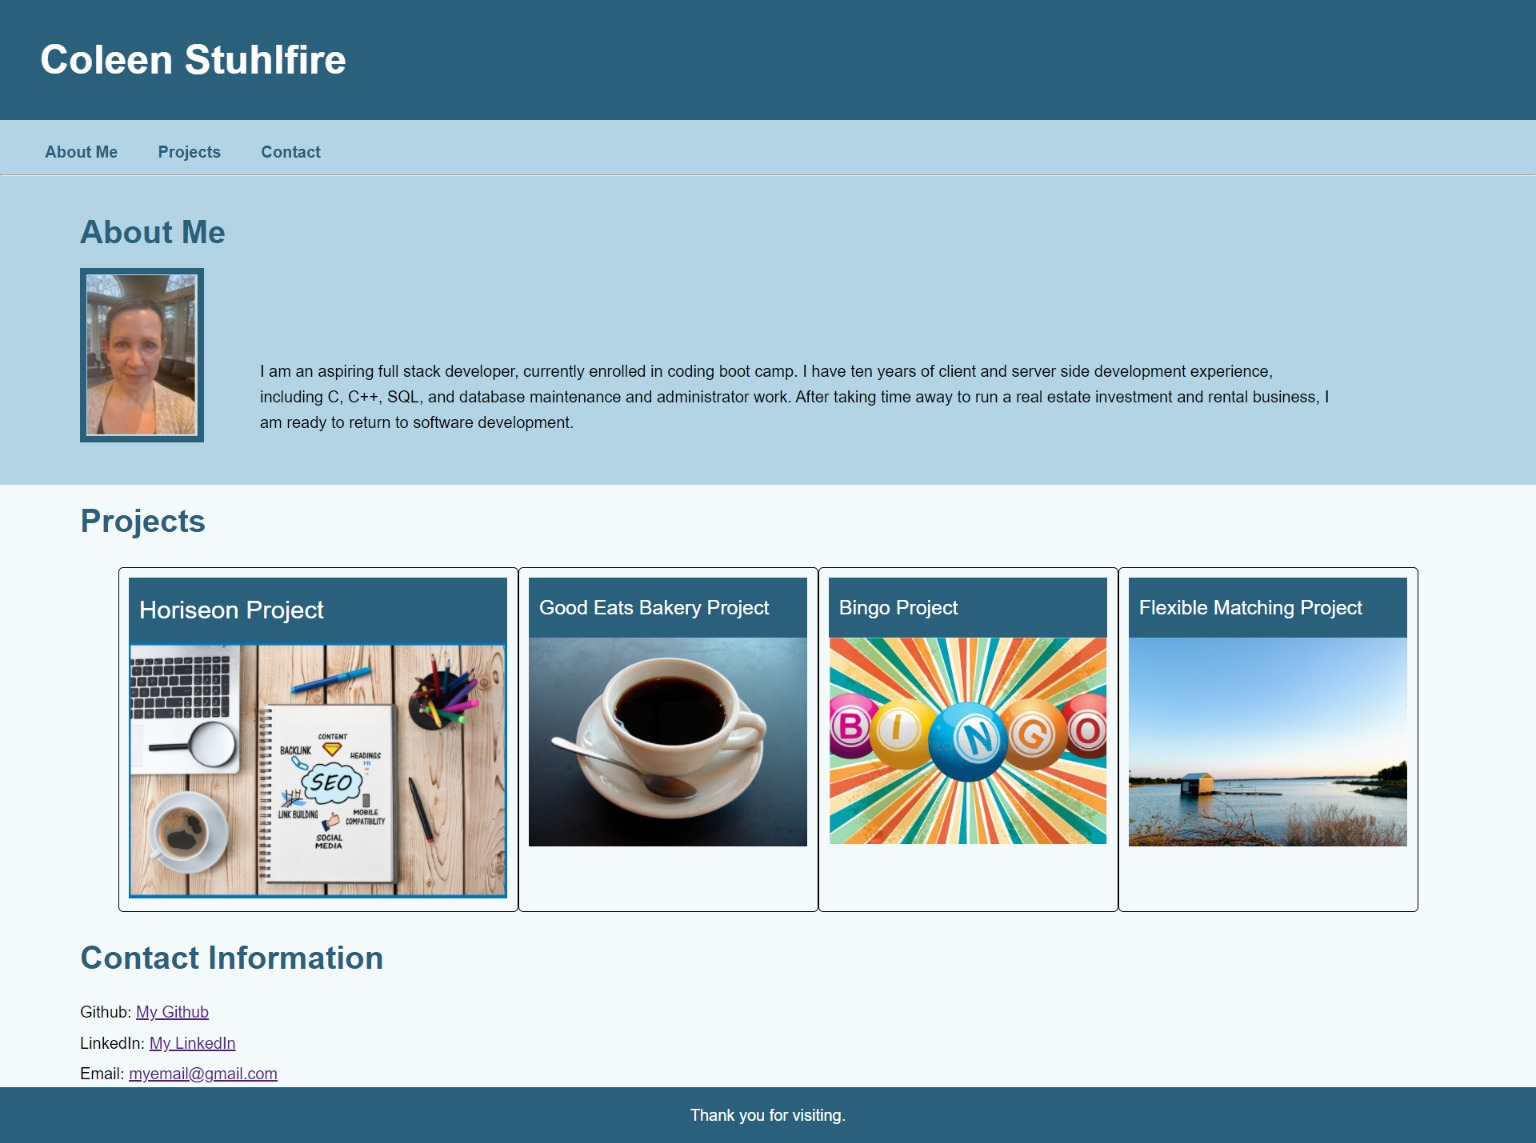
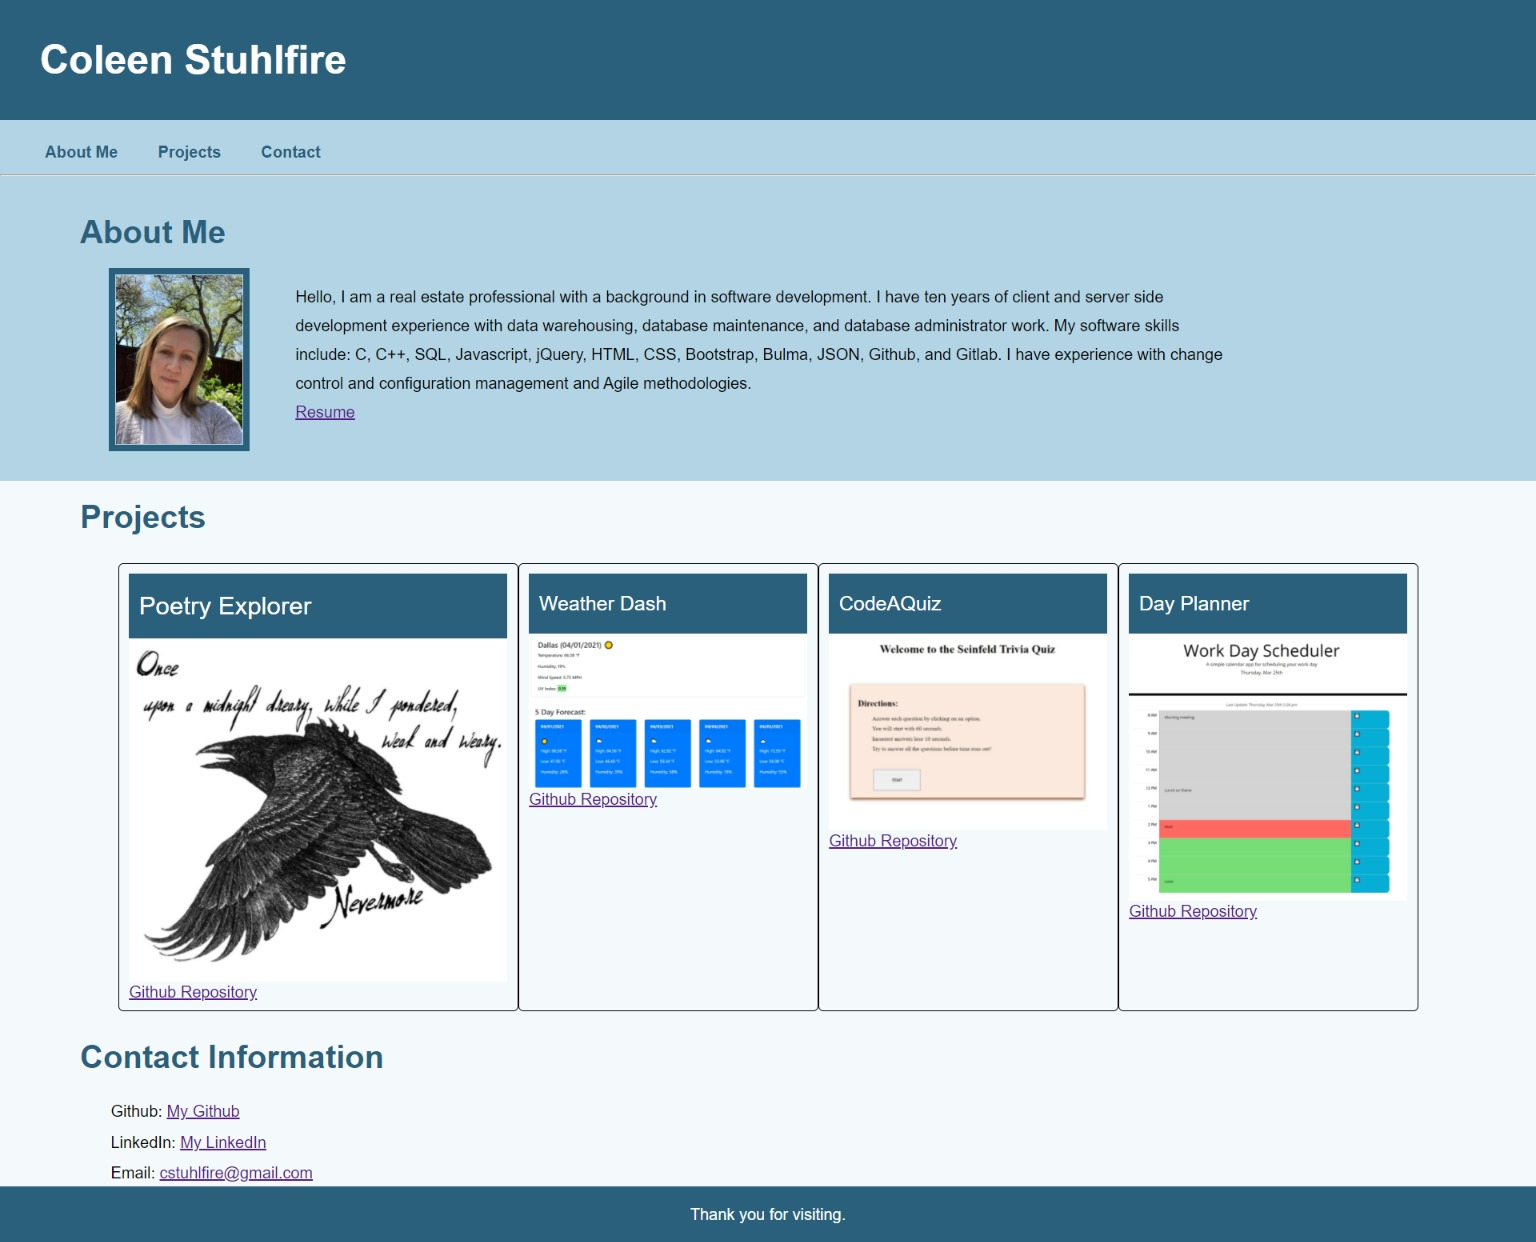
add/ Added github links for projects, updated readme

diff --git a/index.html b/index.html
@@ -67,24 +67,28 @@
                 <header>Poetry Explorer</header>
                 <a href="https://cstuhlfire.github.io/PoetryProject/" target="_blank"><img src="./assets/images/TheRaven.PNG" alt="The Raven"/> 
                 </a> 
+                <p><a href="https://github.com/cstuhlfire/PoetryProject" target="_blank">Github Repository</a></p>
               </div>
 
             <div class="card">
                 <header>Weather Dash</header>
                 <a href="https://cstuhlfire.github.io/WeatherDash/" target="_blank"><img src="./assets/images/WeatherDash.PNG" alt="Weather Dashboard"/> 
                  </a>
+                 <p><a href="https://github.com/cstuhlfire/WeatherDash" target="_blank">Github Repository</a></p>
                 </div>
 
             <div class="card">
                 <header>CodeAQuiz</header>
                 <a href="https://cstuhlfire.github.io/CodeAQuiz/" target="_blank"><img src="./assets/images/CodeAQuiz.PNG" alt="Quiz Photo"/> 
                 </a> 
+                <p><a href="https://github.com/cstuhlfire/CodeAQuiz" target="_blank">Github Repository</a></p>
               </div>
 
             <div class="card">
                 <header>Day Planner</header>
                 <a href="https://cstuhlfire.github.io/DayPlanner/" target="_blank"><img src="./assets/images/DayPlanner.PNG" alt="Day Planner"/> 
                 </a> 
+                <p><a href="https://github.com/cstuhlfire/DayPlanner" target="_blank">Github Repository</a></p>
               </div>
         </div>        
       </main>

diff --git a/README.md b/README.md
@@ -1,34 +1,19 @@
-# 
-# 02 Advanced CSS: Portfolio
-
-## Portfolio
+# Portfolio
 
 ## Description
-## User Story
+This is a profile demonstrating my technical skills in HTML, CSS, and Javascript. There are links to my resume, github repository, and linkedin profile. The included projects are described below.
 
-```
-AS AN employer
-I WANT to view a potential employee's deployed portfolio of work samples
-SO THAT I can review samples of their work and assess whether they're a good candidate for an open position
-```
+## Poetry Explorer
+This application presents users with a dashboard in which they can search for poetry by author or title. They can then select words within the poem to get definitions. Definitions are displayed at the bottom of the screen and searched words are maintained in a list to act as a vocabulary builder. Technologies used: Javascript, HTML, CSS.
 
-## Acceptance Criteria
+## Weather Dash
+This application presents users with a weather dashboard. They can search by city and the current weather and a five day forecast is displayed. A list of recently searched cities is stored so that users can easily retrieve their recent searches. Technologies used: Javascript, HTML, CSS.
 
-```
-GIVEN I need to sample a potential employee's previous work
-WHEN I load their portfolio
-THEN I am presented with the developer's name, a recent photo, and links to sections about them, their work, and how to contact them
-WHEN I click one of the links in the navigation
-THEN the UI scrolls to the corresponding section
-WHEN I click on the link to the section about their work
-THEN the UI scrolls to a section with titled images of the developer's applications
-WHEN I am presented with the developer's first application
-THEN that application's image should be larger in size than the others
-WHEN I click on the images of the applications
-THEN I am taken to that deployed application
-WHEN I resize the page or view the site on various screens and devices
-THEN I am presented with a responsive layout that adapts to my viewport
-```
+## CodeAQuiz
+This application is a Seinfeld trivia quiz. Users are give 60 seconds and are challenged to answer trivia questions before time runs out. Ten seconds are lost for each incorrect answer. Users can save their high score. Technologies used: Javascript, HTML, CSS.
+
+## Day Planner
+This application is provides a view into a user's daily schedule. The days events are entered and displayed in one hour time blocks. The current hour is highlighted red, past hours are grey, and future time blocks are green. Technologies used: Javascript, HTML, CSS.
 
 ## Website Screenshot
 ![The Portfolio webpage includes a navigation bar and links to four applications.](./assets/images/webpage-image.png)
